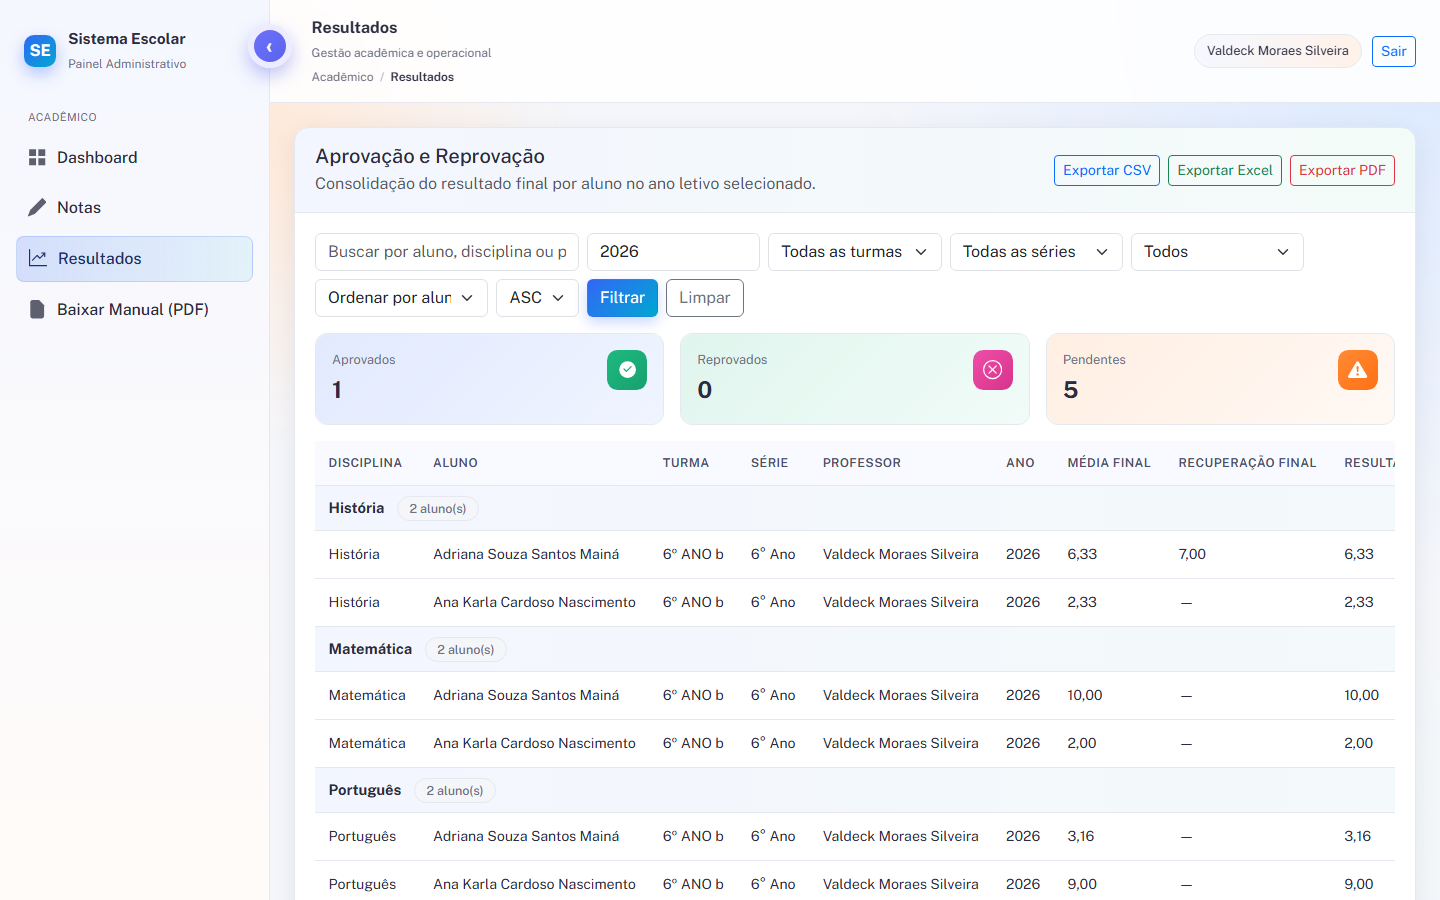
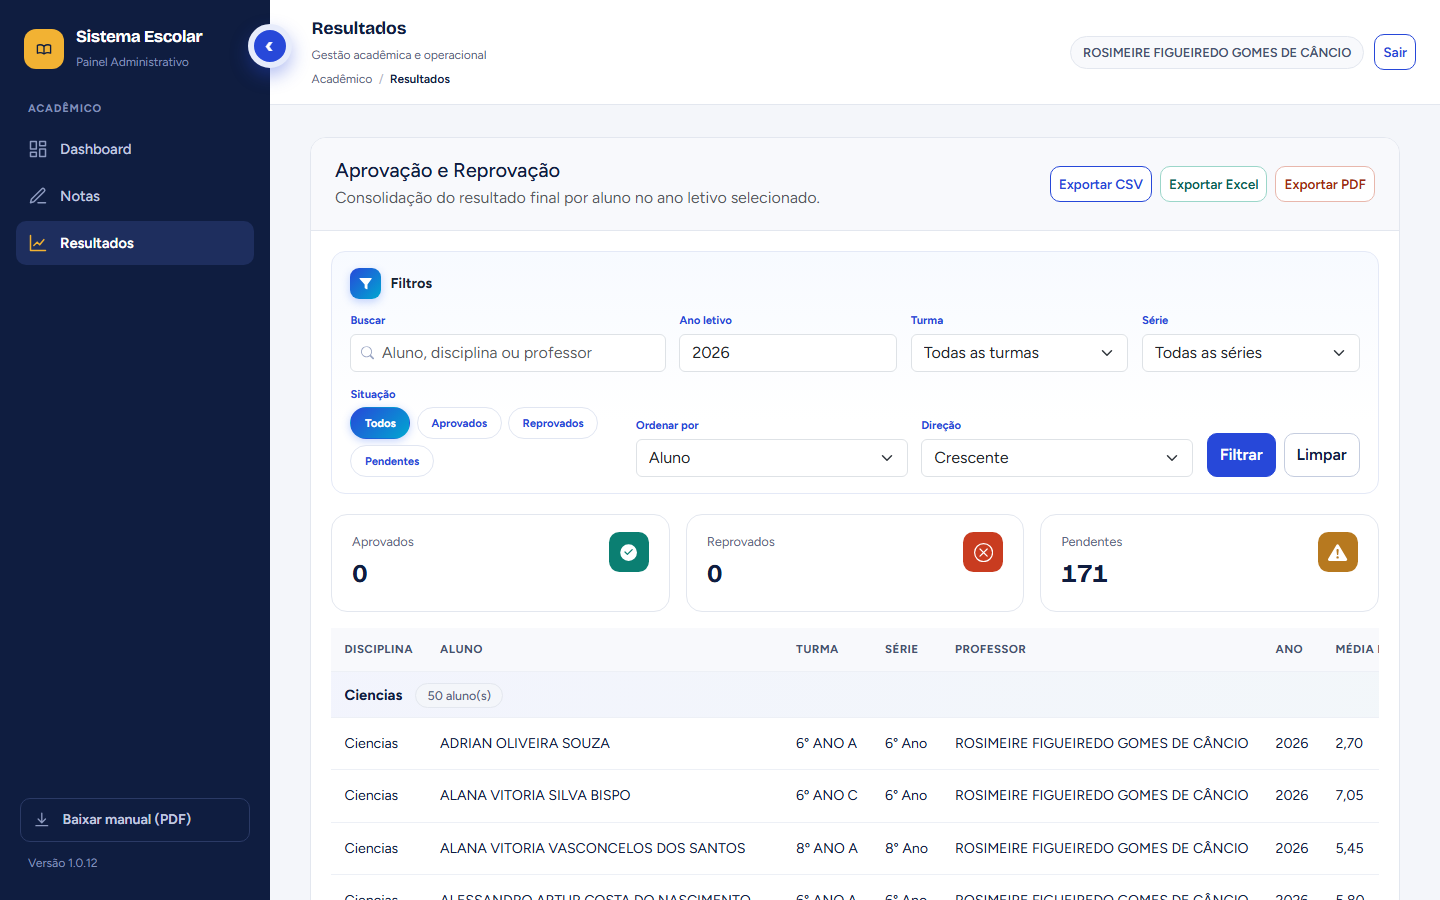
chore: versão 1.0.12 e atualização das capturas do manual com a nova identidade visual
Sobe a versão da aplicação (rodapé e PDF do manual) de 1.0.11 para 1.0.12.

Refaz as 17 capturas de tela usadas no Manual da Aplicação (PDF gerado
em Manual/Index.cshtml.cs), que ainda estavam com o visual antigo:
login, dashboard (Diretor e Professor), alunos, disciplinas,
professores, turmas, séries, períodos, notas (Diretor e Professor),
boletim do aluno, lançamento em massa, resultados (Diretor e
Professor), usuários e troca de senha. Todas recapturadas ao vivo,
logado como Diretor (e, para as 3 telas exclusivas de Professor, com
troca temporária e reversão imediata do hash de senha de uma
professora com dados reais lançados — transparente para ela, senha
original restaurada e conferida byte a byte ao final).

Também corrige um bug de especificidade de CSS encontrado durante a
nova rodada de capturas: as classes semânticas .kpi-icon-approved/
danger/pending (criadas na etapa anterior para a tela de Resultados)
tinham especificidade menor que ".kpi-card:nth-child(n) .kpi-icon" e
por isso nunca venciam — os ícones de Aprovados/Reprovados/Pendentes
continuavam nas cores antigas da sequência padrão (azul/verde/âmbar)
em vez das cores semânticas de status (verde-aprovado/vermelho/âmbar).
Ajustado o seletor para igualar a especificidade.

Build e 43/43 testes passando; PDF do manual verificado end-to-end
(nome do arquivo gerado confirma manual-utilizacao-sistema-escolar-
v1.0.12.pdf).

diff --git a/src/SistemaEscolar.Web/wwwroot/css/site.css b/src/SistemaEscolar.Web/wwwroot/css/site.css
@@ -1195,16 +1195,18 @@ table.grade-sheet {
   height: 1.2rem;
 }
 
-/* Cores semânticas para kpi-icon fora da sequência padrão (ex.: Resultados: Aprovados/Reprovados/Pendentes) */
-.kpi-icon-approved {
+/* Cores semânticas para kpi-icon fora da sequência padrão (ex.: Resultados: Aprovados/Reprovados/Pendentes).
+   Especificidade igual à de ".kpi-card:nth-child(n) .kpi-icon" (3 seletores de classe) para garantir que
+   vençam mesmo vindo depois no cascade. */
+.kpi-card .kpi-icon.kpi-icon-approved {
   background: var(--status-approved-dot);
 }
 
-.kpi-icon-danger {
+.kpi-card .kpi-icon.kpi-icon-danger {
   background: var(--status-failed-dot);
 }
 
-.kpi-icon-pending {
+.kpi-card .kpi-icon.kpi-icon-pending {
   background: var(--status-pending-dot);
 }
 
